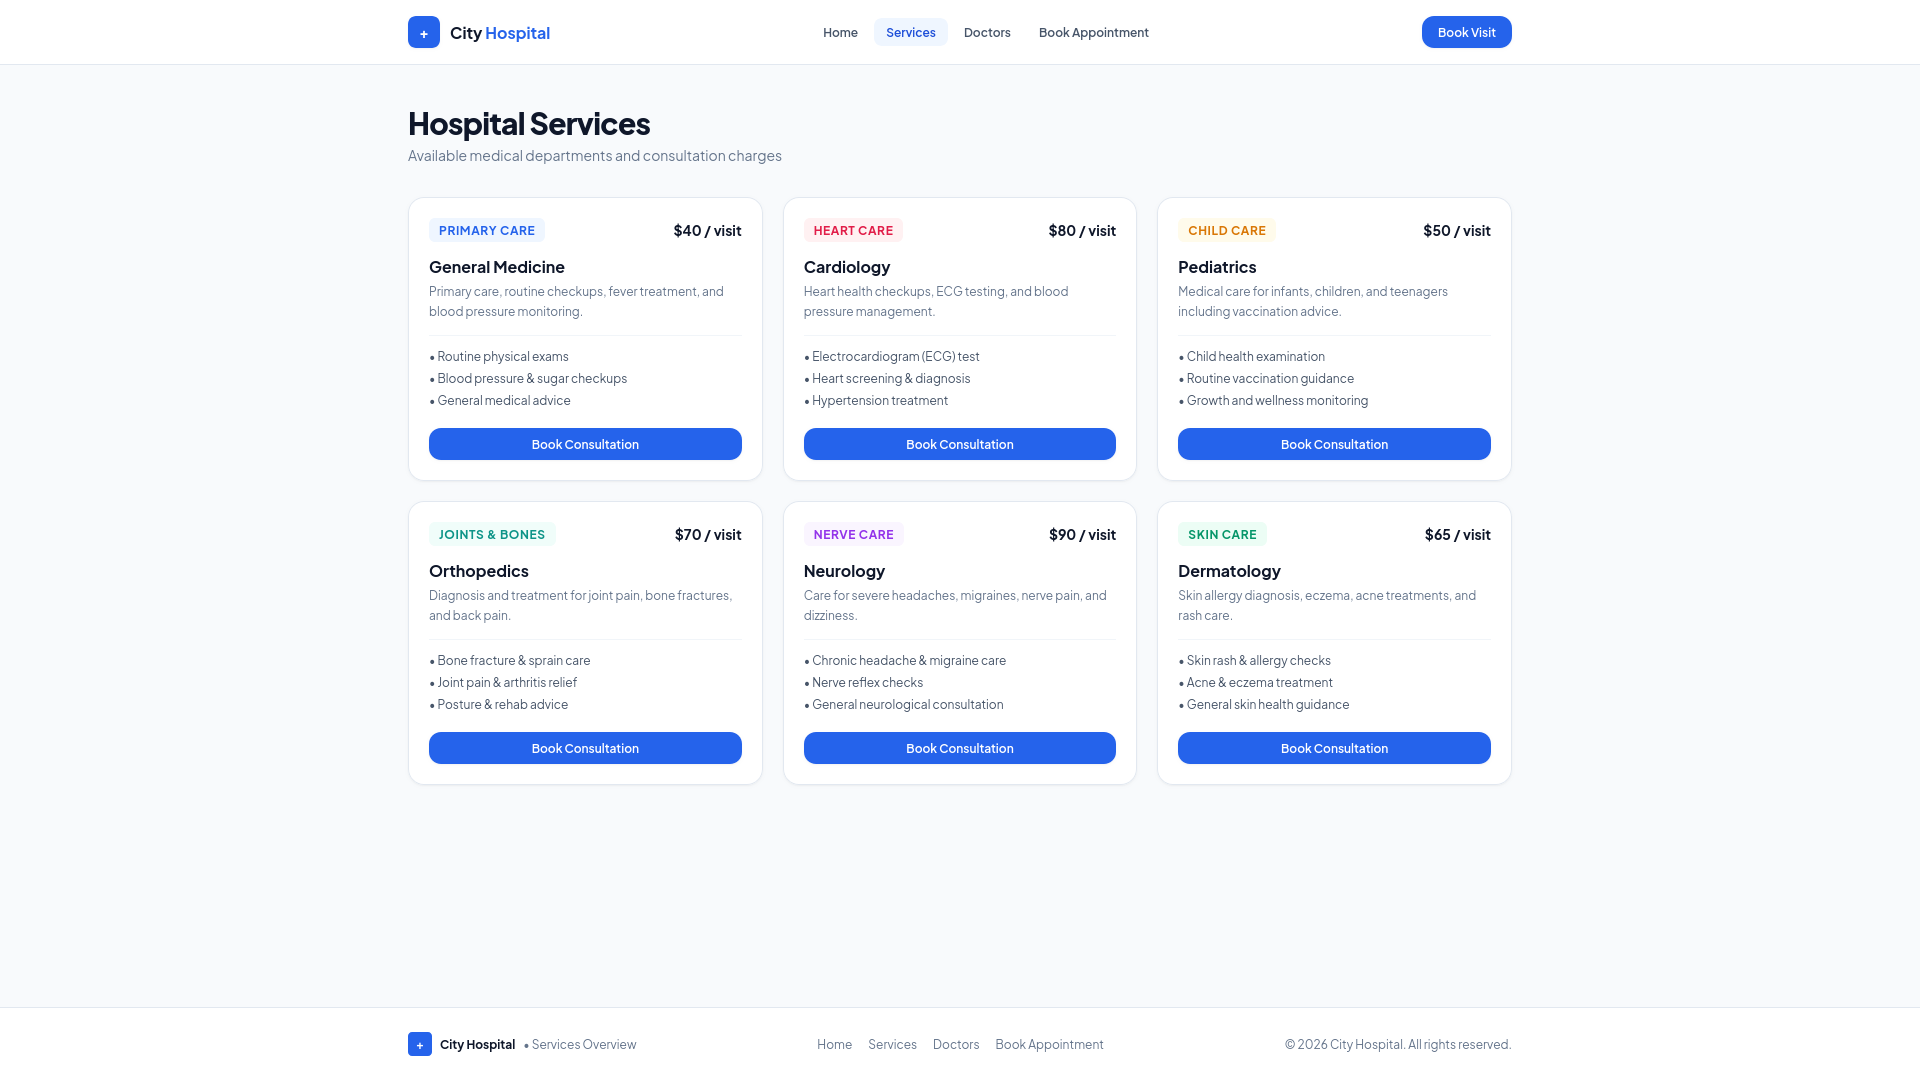
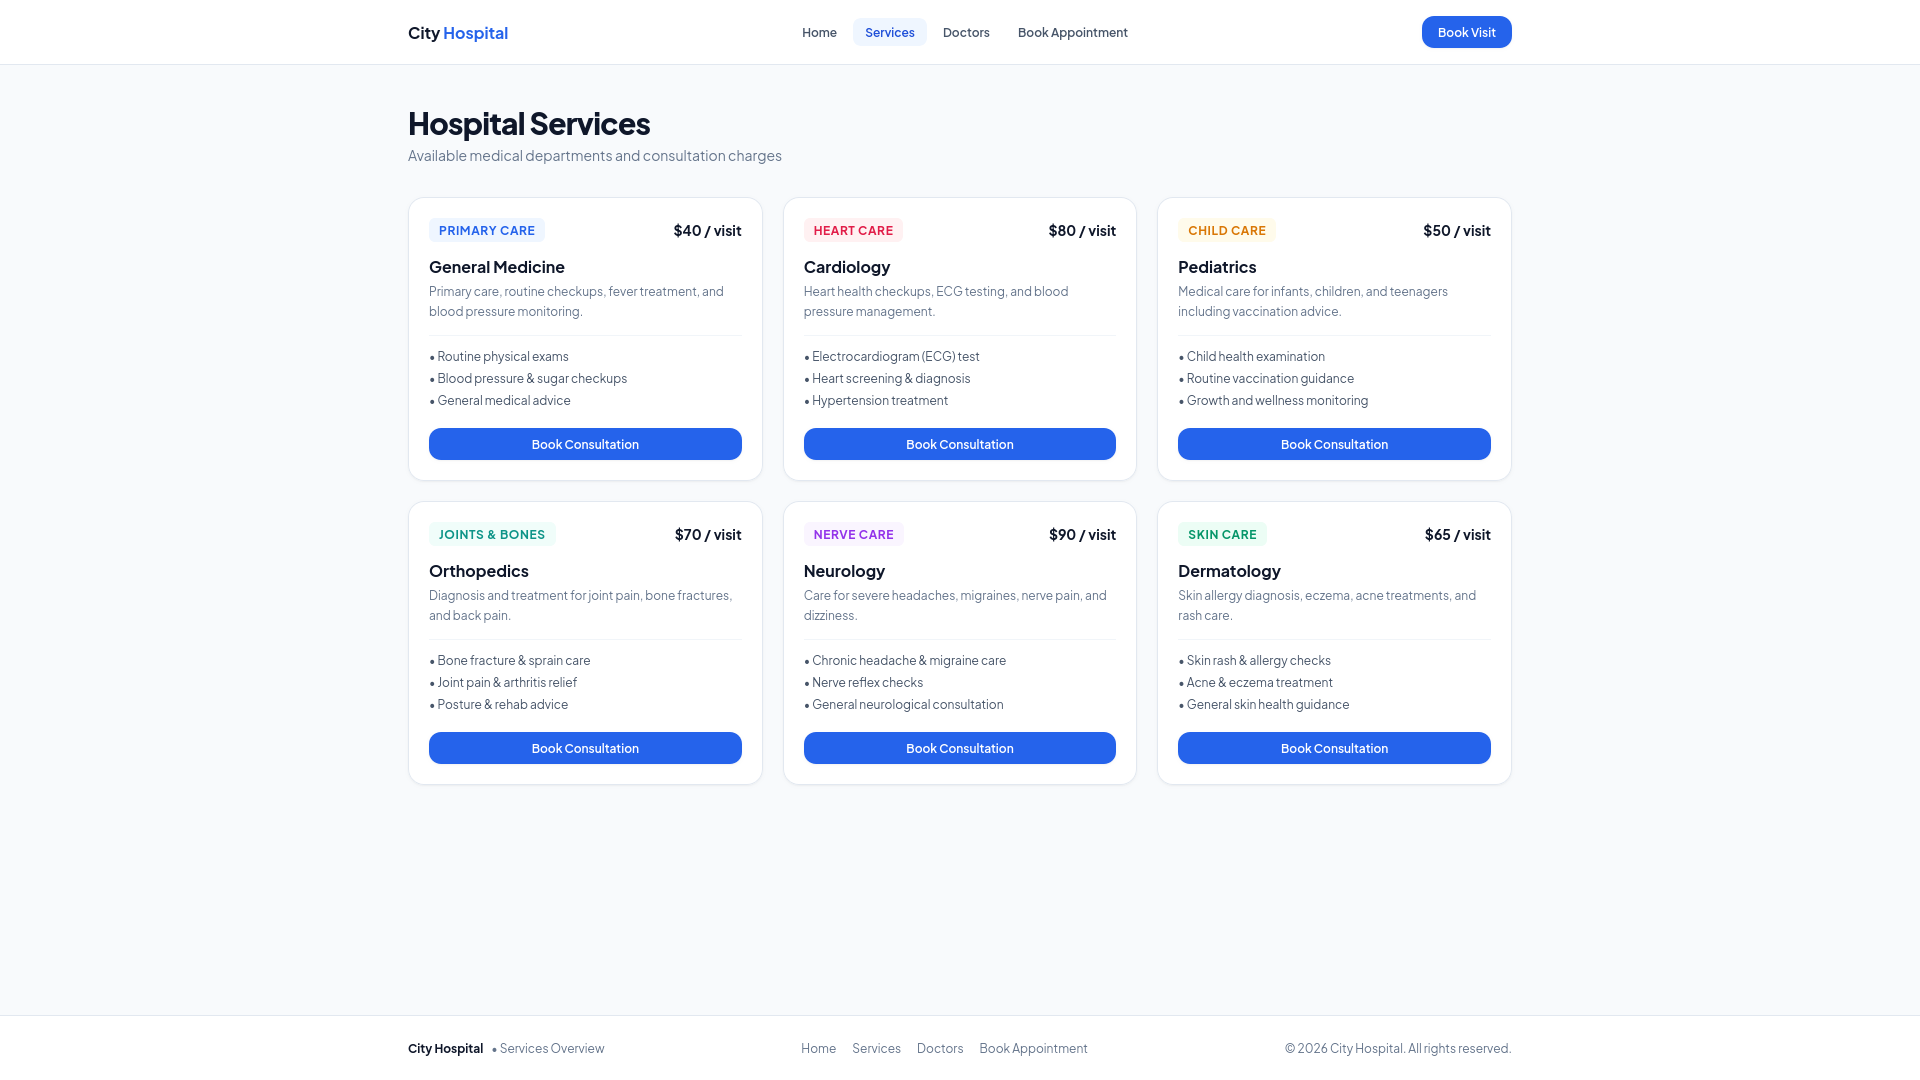
fix(T12): update screenshots and align header/footer markup

diff --git a/T12/services.html b/T12/services.html
@@ -16,7 +16,6 @@
   <header class="bg-white border-b border-slate-200 sticky top-0 z-30">
     <div class="max-w-6xl mx-auto px-4 sm:px-6 flex items-center justify-between h-16">
       <a href="index.html" class="flex items-center gap-2.5 font-bold text-slate-900 text-sm sm:text-base">
-        <span class="w-8 h-8 rounded-lg bg-blue-600 text-white flex items-center justify-center font-extrabold text-sm shadow-sm">+</span>
         <span>City <span class="text-blue-600">Hospital</span></span>
       </a>
 
@@ -198,7 +197,6 @@
   <footer class="bg-white border-t border-slate-200 mt-16 py-6 text-xs text-slate-500">
     <div class="max-w-6xl mx-auto px-4 sm:px-6 flex flex-col sm:flex-row items-center justify-between gap-4">
       <div class="flex items-center gap-2">
-        <span class="w-6 h-6 rounded bg-blue-600 text-white flex items-center justify-center font-bold text-xs">+</span>
         <span class="font-bold text-slate-900">City Hospital</span>
         <span>• Services Overview</span>
       </div>

diff --git a/T12/doctors.html b/T12/doctors.html
@@ -16,7 +16,6 @@
   <header class="bg-white border-b border-slate-200 sticky top-0 z-30">
     <div class="max-w-6xl mx-auto px-4 sm:px-6 flex items-center justify-between h-16">
       <a href="index.html" class="flex items-center gap-2.5 font-bold text-slate-900 text-sm sm:text-base">
-        <span class="w-8 h-8 rounded-lg bg-blue-600 text-white flex items-center justify-center font-extrabold text-sm shadow-sm">+</span>
         <span>City <span class="text-blue-600">Hospital</span></span>
       </a>
 
@@ -80,7 +79,6 @@
   <footer class="bg-white border-t border-slate-200 mt-16 py-6 text-xs text-slate-500">
     <div class="max-w-6xl mx-auto px-4 sm:px-6 flex flex-col sm:flex-row items-center justify-between gap-4">
       <div class="flex items-center gap-2">
-        <span class="w-6 h-6 rounded bg-blue-600 text-white flex items-center justify-center font-bold text-xs">+</span>
         <span class="font-bold text-slate-900">City Hospital</span>
         <span>• Doctors Directory</span>
       </div>

diff --git a/T12/appointment.html b/T12/appointment.html
@@ -16,7 +16,6 @@
   <header class="bg-white border-b border-slate-200 sticky top-0 z-30">
     <div class="max-w-6xl mx-auto px-4 sm:px-6 flex items-center justify-between h-16">
       <a href="index.html" class="flex items-center gap-2.5 font-bold text-slate-900 text-sm sm:text-base">
-        <span class="w-8 h-8 rounded-lg bg-blue-600 text-white flex items-center justify-center font-extrabold text-sm shadow-sm">+</span>
         <span>City <span class="text-blue-600">Hospital</span></span>
       </a>
 
@@ -159,7 +158,6 @@
   <footer class="bg-white border-t border-slate-200 mt-16 py-6 text-xs text-slate-500">
     <div class="max-w-6xl mx-auto px-4 sm:px-6 flex flex-col sm:flex-row items-center justify-between gap-4">
       <div class="flex items-center gap-2">
-        <span class="w-6 h-6 rounded bg-blue-600 text-white flex items-center justify-center font-bold text-xs">+</span>
         <span class="font-bold text-slate-900">City Hospital</span>
         <span>• Appointments</span>
       </div>
